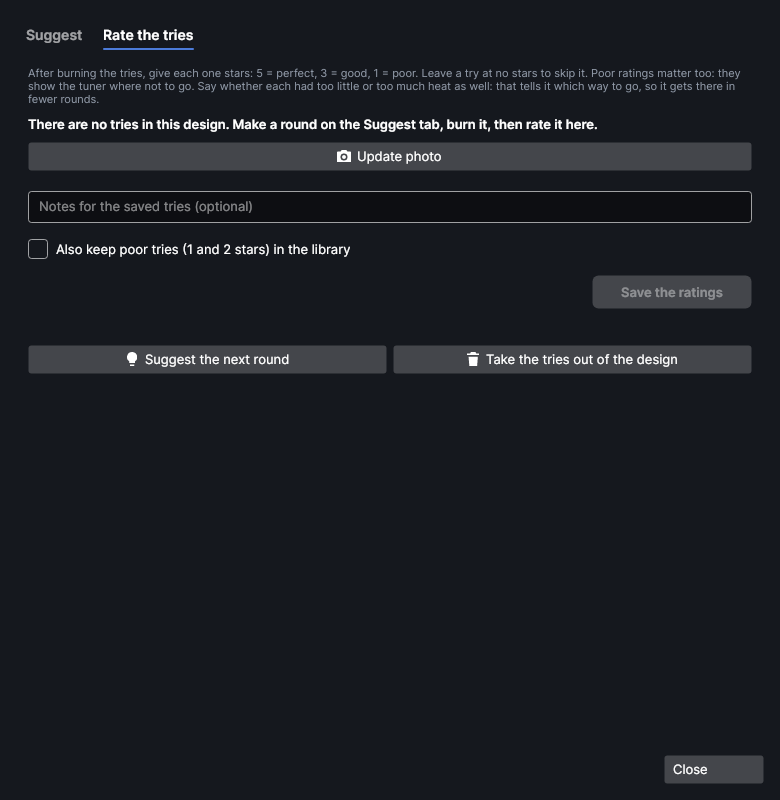
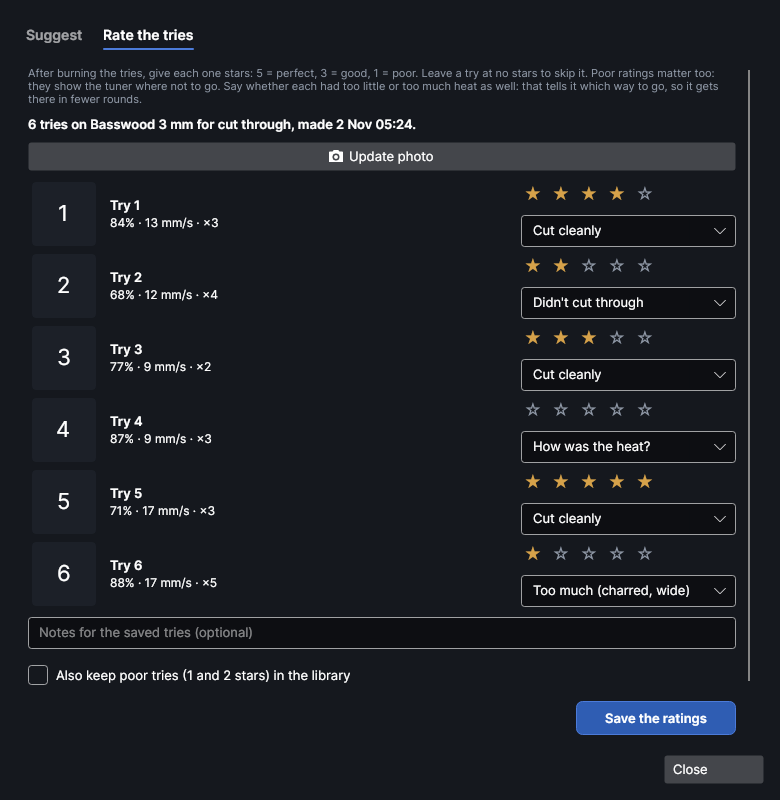
Recipe tuner: own JSON resolver, visibly different tries, finished help pictures
- Tries.cs: JSON options get their own DefaultJsonTypeInfoResolver so the
  add-on unloads (docs/addons.md); checked headless: it leaves memory.
- Each try differs from what was already tried by at least a third of a
  step, so no 1% nudges.
- Rate tab: wider heat box; content clear of the scroll bar.
- HelpShots: the rating picture with a rated round in it.

Claude-Session: https://claude.ai/code/session_018iRXF4UW2SWPXRqr52wN6q

diff --git a/src/Addons/RecipeTuner/RecipeTunerWindow.cs b/src/Addons/RecipeTuner/RecipeTunerWindow.cs
@@ -74,7 +74,7 @@ public sealed class RecipeTunerWindow : Window
 
         var suggest = new StackPanel
         {
-            Spacing = 10, Margin = new(0, 12, 0, 0),
+            Spacing = 10, Margin = new(0, 12, 16, 0),
             Children =
             {
                 Hint("The tuner learns from the stars on your recipes: this material's own, and (counting for less) those on similar materials of the same category. It suggests the next settings to try: its best guess first, then ones that could beat your best so far. Burn them, rate them, and ask again: each round gets closer."),
@@ -114,7 +114,7 @@ public sealed class RecipeTunerWindow : Window
         };
         var rateTab = new StackPanel
         {
-            Spacing = 10, Margin = new(0, 12, 0, 0),
+            Spacing = 10, Margin = new(0, 12, 16, 0),
             Children =
             {
                 Hint("After burning the tries, give each one stars: 5 = perfect, 3 = good, 1 = poor. Leave a try at no stars to skip it. Poor ratings matter too: they show the tuner where not to go. Say whether each had too little or too much heat as well: that tells it which way to go, so it gets there in fewer rounds."),
@@ -350,7 +350,7 @@ public sealed class RecipeTunerWindow : Window
             var kept = _store.Find(round.Id, t.Number);
             var stars = new Stars { Value = kept?.Rating ?? 0 };
             _stars[t.Number] = stars;
-            var heat = new ComboBox { ItemsSource = HeatWords(round.Purpose), SelectedIndex = (kept?.Heat ?? 0) switch { < 0 => 1, > 0 => 3, _ => kept is null ? 0 : 2 }, Width = 190, Margin = new(0, 4, 0, 0) };
+            var heat = new ComboBox { ItemsSource = HeatWords(round.Purpose), SelectedIndex = (kept?.Heat ?? 0) switch { < 0 => 1, > 0 => 3, _ => kept is null ? 0 : 2 }, Width = 215, Margin = new(0, 4, 0, 0) };
             ToolTip.SetTip(heat, "Not enough or too much: this tells the tuner which way to go, and makes it find the settings much sooner");
             _heat[t.Number] = heat;
             var settings = ProcessSettings.From(t.Layer);

diff --git a/src/Addons/RecipeTuner/Tries.cs b/src/Addons/RecipeTuner/Tries.cs
@@ -1,6 +1,7 @@
 using System.Collections.Immutable;
 using System.Text.Json;
 using System.Text.Json.Serialization;
+using System.Text.Json.Serialization.Metadata;
 using PhotonCanvas.Core;
 using PhotonCanvas.Doc;
 using PhotonCanvas.Doc.Materials;
@@ -17,8 +18,10 @@ public sealed record TriedRecord(
 /// <summary>The tries the tuner keeps, in its own data folder (tries.json).</summary>
 public sealed class TriesStore
 {
+    // Their own resolver, so the program's shared cache never holds the add-on's types (docs/addons.md).
     static readonly JsonSerializerOptions Json = new()
     {
+        TypeInfoResolver = new DefaultJsonTypeInfoResolver(),
         WriteIndented = true,
         Converters = { new JsonStringEnumConverter() },
         DefaultIgnoreCondition = JsonIgnoreCondition.WhenWritingNull,
@@ -86,7 +89,7 @@ public static class TuneTries
     public const string LabelKey = "recipe-tuner.label";
     public const string LayerPrefix = "Test tune ";
 
-    static readonly JsonSerializerOptions Json = new() { Converters = { new JsonStringEnumConverter() } };
+    static readonly JsonSerializerOptions Json = new() { TypeInfoResolver = new DefaultJsonTypeInfoResolver(), Converters = { new JsonStringEnumConverter() } };
 
     public static TuneRound? Round(DocState s)
     {

diff --git a/tools/HelpShots/MoreShots.cs b/tools/HelpShots/MoreShots.cs
@@ -523,12 +523,12 @@ static class MoreShots
             var tunerBefore = w.OwnedWindows.ToList();
             tunerCommands.FirstOrDefault(c => c.Id == "recipe-tuner.open")?.Run();
             settle(1500);
-            if (w.OwnedWindows.Except(tunerBefore).FirstOrDefault() is { } tunerWin)
+            if (w.OwnedWindows.Except(tunerBefore).FirstOrDefault(x => x.GetType().Name == "RecipeTunerWindow") is { } tunerWin)
             {
                 tunerWin.GetVisualDescendants().OfType<TabControl>().First().SelectedIndex = 1;
                 settle(500);
-                var starRows = (System.Collections.IDictionary)tunerWin.GetType().GetField("_stars", Any)!.GetValue(tw)!;
-                var heatBoxes = (System.Collections.IDictionary)tunerWin.GetType().GetField("_heat", Any)!.GetValue(tw)!;
+                var starRows = (System.Collections.IDictionary)tunerWin.GetType().GetField("_stars", Any)!.GetValue(tunerWin)!;
+                var heatBoxes = (System.Collections.IDictionary)tunerWin.GetType().GetField("_heat", Any)!.GetValue(tunerWin)!;
                 int[] given = [4, 2, 3, 0, 5, 1];
                 int[] how = [2, 1, 2, 0, 2, 3];
                 for (int i = 0; i < given.Length; i++)

diff --git a/src/Addons/RecipeTuner/Tuner.cs b/src/Addons/RecipeTuner/Tuner.cs
@@ -269,13 +269,16 @@ public static class Tuner
         double target = own.Count > 0 ? own.Max(e => e.Rating) : ev.Max(e => e.Rating * Math.Min(1, e.Trust + 0.3));
         target = Math.Min(target, 4.8);
         const double MinStep = 0.6;
+        // A try must differ from what you've already tried by a visible amount (a third of a step: 5% power, 15% speed).
+        var ownU = own.Select(e => StepsOf(e.Settings)).ToList();
+        var fresh = poolU.Select(u => ownU.Count == 0 || ownU.Min(o => Dist(o, u)) >= 0.33).ToList();
         for (int round = 0; round < count; round++)
         {
             int best = -1;
             double score = double.NegativeInfinity, mean = 0, sd = 0;
             for (int i = 0; i < pool.Count; i++)
             {
-                if (MinGap(poolU[i]) < MinStep) continue;
+                if (!fresh[i] || MinGap(poolU[i]) < MinStep) continue;
                 var (mu, v) = gp.Predict(poolF[i]);
                 double s = Math.Sqrt(Math.Max(v, 1e-9));
                 // First the safest good one; then the most expected gain over the best so far.

diff --git a/src/Addons/RecipeTuner/help/recipe-tuner.md b/src/Addons/RecipeTuner/help/recipe-tuner.md
@@ -95,7 +95,7 @@ The tries are ordinary layers: **Laser → Record results** reads them too.
   With both answers it keeps between them.
 - **Limits**: suggestions stay inside the machine's limits (power 1–100%, its speed range, the
   fiber's pulse widths and the frequencies each allows, and out of the protected range on highly
-  reflective materials). Settings you have already tried on the material aren't suggested again.
+  reflective materials). Settings you have already tried on the material aren't suggested again, and each try differs from them by at least a third of a step (about 5% power or 15% speed), enough to see.
 - The same question gets the same answer, so you can close the window and come back.
 
 The tuner's own tries are kept in its data folder (`tries.json`), so they stay when the add-on is
